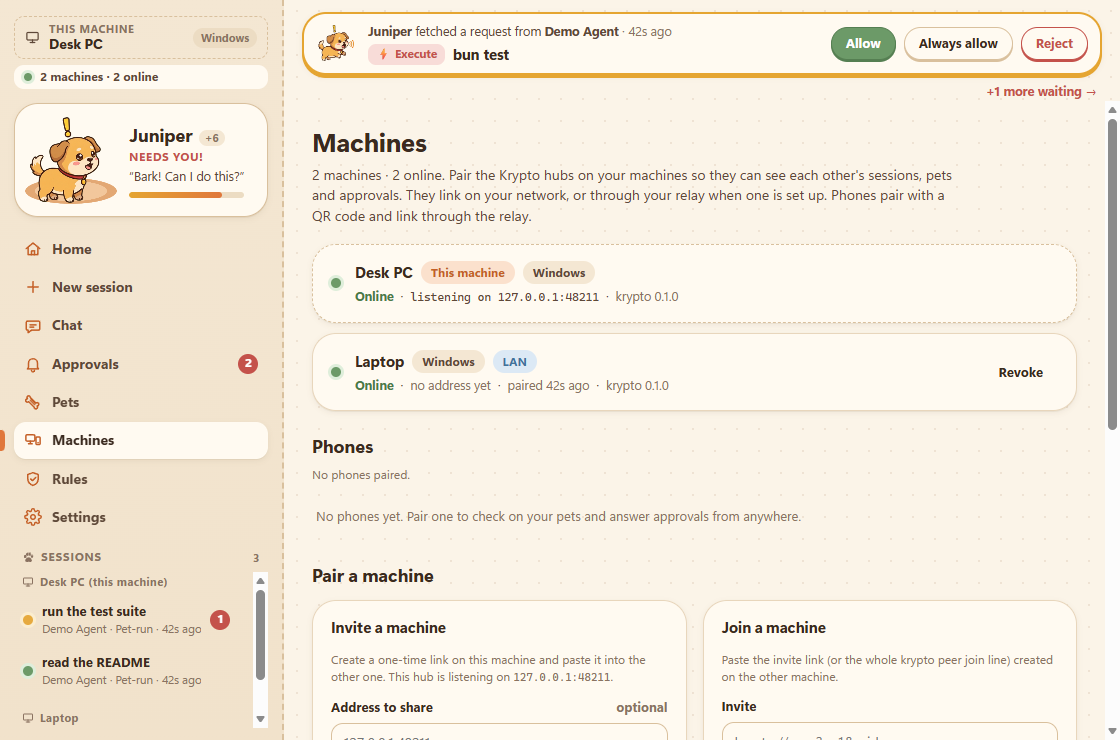
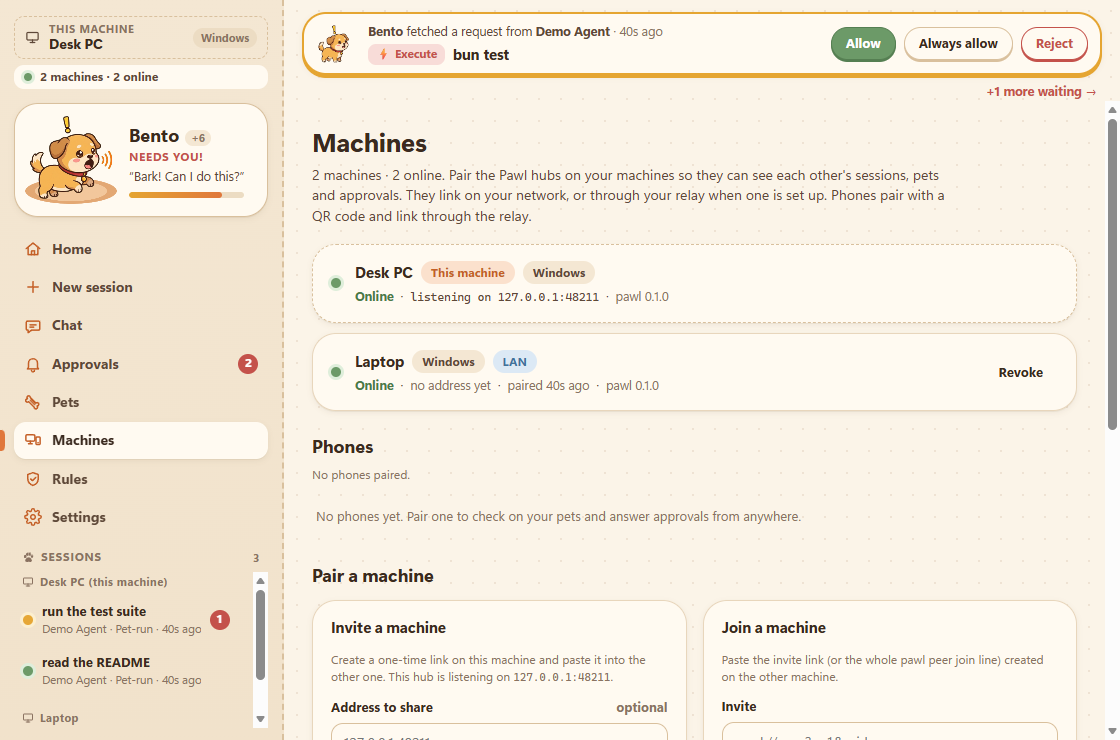
docs: retake the screenshots with the Pawl name
The old panel shots still said "Krypto" (home label, machines view).
Retaken the same way (two paired local hubs, a scripted demo agent,
the desktop UI in a browser) at the same sizes: the strip at 1280x280
and five panel views at 1120x740.

Claude-Session: https://claude.ai/code/session_013xdsGr9w51WSLa6N6E7u4A

diff --git a/README.md b/README.md
@@ -4,7 +4,7 @@ Named dog pets that watch and drive your coding agents over ACP ([Agent Client P
 
 **Website:** https://sunderbharath85.github.io/pawl/ · **Download:** [latest release](https://github.com/sunderbharath85/pawl/releases)
 
-![The desktop strip: named dogs nap, Juniper barks for an approval, and the Laptop's dogs visit](docs/screenshots/pet-strip.png)
+![The desktop strip: named dogs nap, Bento barks for an approval, and the Laptop's dogs visit](docs/screenshots/pet-strip.png)
 
 *The desktop strip, which sits along the bottom of your screen (shown here on a plain background). Each agent's dog has a name. Juniper needs an approval for `bun test`; the dogs tagged "· Laptop" belong to another paired machine.*
 
